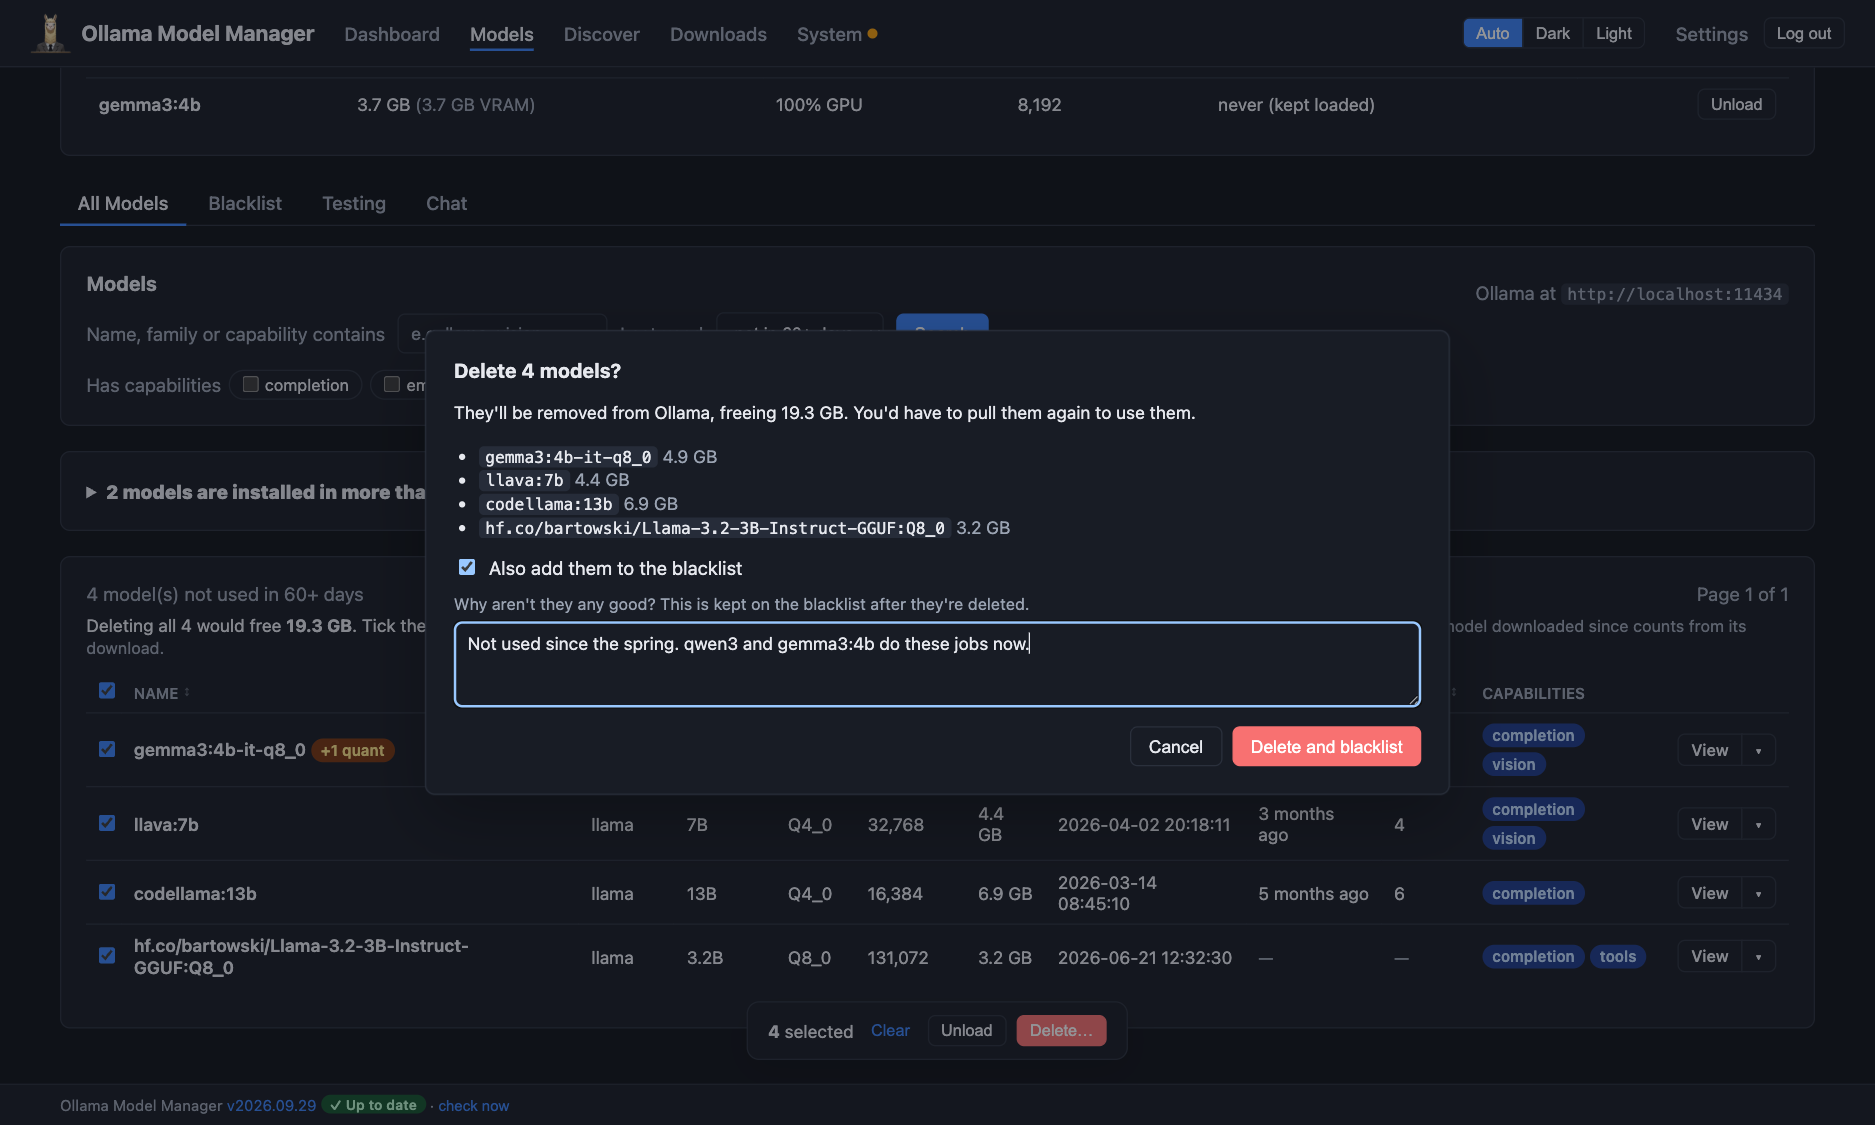
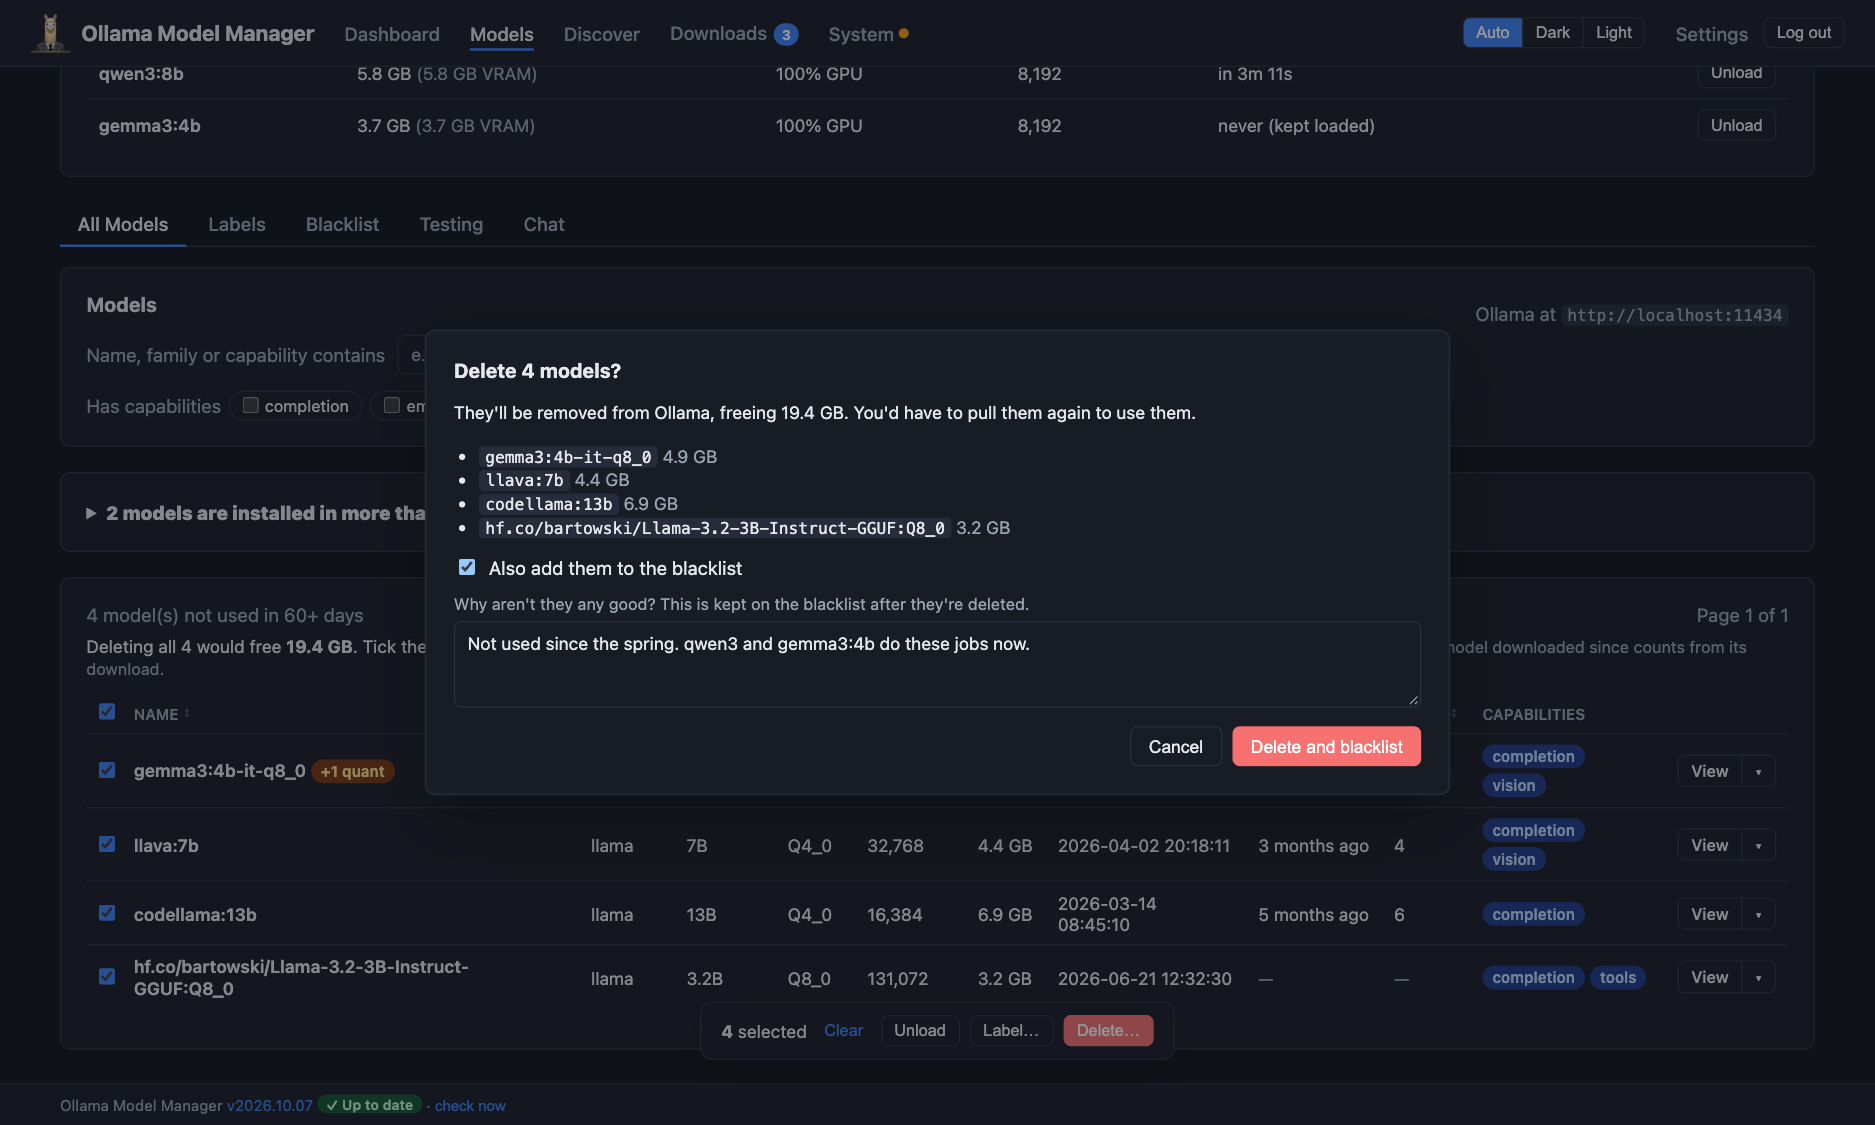
doc updates

diff --git a/internal/web/templates/layout.html b/internal/web/templates/layout.html
@@ -631,7 +631,7 @@
   .disc-tags[open] summary { margin-bottom: 8px; }
   /* An expanded card takes the whole row, so its tag table isn't squeezed into one column of the grid. */
   .disc-card:has(details.disc-tags[open]) { grid-column: 1 / -1; }
-  .disc-tag-table { max-height: 360px; overflow: auto; }
+  .disc-tag-table { max-height: 520px; overflow: auto; } /* tall enough for six or so tags with their quant lines */
   .disc-tag-table td.mono, .disc-tag-table th { white-space: nowrap; }
   .disc-tag-table td { vertical-align: top; }
   .disc-tag-table .badge { cursor: help; white-space: nowrap; }

diff --git a/README.md b/README.md
@@ -10,7 +10,7 @@
   ones that weren't worth keeping.
 </p>
 
-![The dashboard: library totals, free disk space, live system load, the models loaded in memory, four models unused for 60+ days, a chart of each model's use over the last week, and the most recently used models](docs/images/dashboard.png)
+![The dashboard: library totals, free disk space, live system load, the models loaded in memory, four models unused for 60+ days, a chart of each model's use over the last week, and the most recently used models with their labels](docs/images/dashboard.png)
 
 ## What it adds to Ollama
 
@@ -26,6 +26,7 @@ Manager fills in the rest:
 | **Disk space** | `ollama list` sizes, which count files shared between models again for each | The real space used, exactly what a delete frees, the models you haven't used in months, and the ones you have in two quantisations, cleared out in one go |
 | **Comparing models** | Try each one by hand and eyeball it | Tests: one prompt, many models, many runs, with speed and replies side by side |
 | **Remembering what didn't work** | Nothing | A blacklist that keeps why you deleted a model, and warns you before you download it again |
+| **Keeping track of models** | Their names | Colour-coded labels for what each model is for or who uses it, on every page and to filter by |
 | **Staying up to date** | Check the releases yourself | An orange dot when Ollama has an update, with how to install it |
 
 ## Features
@@ -35,13 +36,13 @@ The **dashboard** shows your library's size, free space on the disk Ollama uses,
 loaded in memory (and how much of it is on the GPU), a chart of how long each model was in use each day over the last
 week, and the models you've used most recently.
 
-![The dashboard: library totals, free disk space, live system load, the models loaded in memory, four models unused for 60+ days, a chart of each model's use over the last week, and the most recently used models](docs/images/dashboard.png)
+![The dashboard: library totals, free disk space, live system load, the models loaded in memory, four models unused for 60+ days, a chart of each model's use over the last week, and the most recently used models with their labels](docs/images/dashboard.png)
 
 The **Models** page lists everything installed, with its family, size, quantisation, context length, capabilities, when
 it was downloaded, when it was last used and how many times it's been loaded. Sort by size, parameters, context, download date, last use or
 loads, filter by name, capability or how long it's gone unused, and click a name to copy it.
 
-![The Models page: every installed model, sorted by when it was last used, with selection boxes, and badges for models with another name or another quantisation installed](docs/images/models.png)
+![The Models page: every installed model, sorted by when it was last used, with selection boxes, its labels under its name, and badges for models with another name or another quantisation installed](docs/images/models.png)
 
 Each model's menu loads or unloads it (choosing how long it stays loaded), opens a chat, shows its **other quants** to
 download, links to it on ollama.com or Hugging Face, or deletes it. Tick several to unload, label or delete them at
@@ -58,7 +59,7 @@ time it's loaded, and roughly how long it's in use each day, so you can see whic
 model's page has a 30-day chart alongside everything Ollama knows about it: architecture, parameters, template and
 Modelfile.
 
-![A model's page: its details, and a usage chart of time in use per day over the last 30 days](docs/images/model-detail.png)
+![A model's page: its labels and details, and a usage chart of time in use per day over the last 30 days](docs/images/model-detail.png)
 
 ### Reclaiming disk space
 Sizes count each file once: `llama3.2:latest` and `llama3.2:3b` are one model, a variant made from another shares its
@@ -75,10 +76,11 @@ there's room for everything queued ahead of them.
 ### Discover and download models
 Search GGUF models on [Hugging Face](https://huggingface.co/models?library=gguf) and the
 [Ollama library](https://ollama.com/search) without leaving the app. Every size and quantisation is marked
-✓ fits in VRAM, ◐ partly on the CPU, or ✗ too big for your machine, with its real download size. Downloads go into a
-queue that works through them in the background, with progress, speed and ETA, and suggestions for fixing any that fail.
+✓ fits in VRAM, ◐ partly on the CPU, or ✗ too big for your machine, with its real download size and a line on what its
+quantisation (Q4_K_M, IQ3_XXS and so on) means. Downloads go into a queue that works through them in the background,
+with progress, speed and ETA, and suggestions for fixing any that fail.
 
-![Discover: the gemma3 models on ollama.com, each size checked against an Apple M4, with one blacklisted and one installed](docs/images/discover.png)
+![Discover: the gemma3 models on ollama.com, each size checked against an Apple M4 and each quantisation explained, with one blacklisted and some installed](docs/images/discover.png)
 
 **[Discovering and downloading models →](docs/discovery.md)**, including how to get at gated and private Hugging Face
 models.

diff --git a/docs/discovery.md b/docs/discovery.md
@@ -24,7 +24,7 @@ parameter count, its context length, and a **gated** badge if you need to ask fo
 Open **Files and downloads** to see each quantisation (Q4_K_M, Q8_0 and so on) with its real size and fit. Files split
 into several parts, and vision projectors (which aren't models on their own), are handled for you.
 
-![Discover's Hugging Face tab: the note that the app isn't connected to Hugging Face, and a search for Google's official QAT Gemma GGUF with its quantisations](images/discover-hf.png)
+![Discover's Hugging Face tab: the note that the app isn't connected to Hugging Face, and a search for Google's official QAT Gemma GGUF with its quantisations, each explained](images/discover-hf.png)
 
 A note at the top of the tab says whether this app is connected to Hugging Face. Connected (with `HF_TOKEN` set), it
 names the account, and searches include that account's private repos and the gated ones it's been granted. Not
@@ -49,7 +49,7 @@ and a **Download** button. Tags that are the same download under another name (s
 match. Tags you already have are marked **Installed**, ones in the queue show their progress, and ones on your
 [blacklist](blacklist.md) are marked **Blacklisted**.
 
-![A gemma3 result with its tags open: sizes, context, fit, and which are installed](images/discover.png)
+![A gemma3 result with its tags open: sizes, context, fit, what each quantisation means, and which are installed or blacklisted](images/discover.png)
 
 The filters above the results:
 
@@ -114,7 +114,7 @@ every tag (for ollama.com models) or quantisation (for Hugging Face models) of t
 marked, so you can download a bigger or smaller one to compare. **View on ollama.com / Hugging Face** opens its page
 there.
 
-![The Other quants dialog for qwen3:8b: every size, with the installed ones marked and one downloading](images/other-quants.png)
+![The Other quants dialog for qwen3:8b: every size with what its quantisation means, the installed one marked and one downloading](images/other-quants.png)
 
 ## The download queue
 

diff --git a/docs/disk-space.md b/docs/disk-space.md
@@ -26,7 +26,7 @@ works the figures out from the files themselves:
 - **Deleting says exactly what it frees.** The delete dialogs say how much space deleting a model frees: only the files
   no other model uses. Deleting one name of a model that has another frees nothing, and the dialog says so.
 
-![The Models page: the filters, the duplicate quantisations note, and the list with selection boxes and badges for other tags and quantisations](images/models.png)
+![The Models page: the filters, the duplicate quantisations note, and the list with selection boxes, labels, and badges for other tags and quantisations](images/models.png)
 
 This needs this app to see Ollama's models folder (`MODELS_DIR`; it's found automatically in the usual places, and at
 `/models` in Docker). Without it, tags of the same model are still counted once, but files shared between different
@@ -80,7 +80,7 @@ Tick models on the Models page (or tick the box in the header for the whole page
 - **Delete…** lists them, with how much space deleting them frees, and asks first. Tick **Also add them to the
   blacklist** to [blacklist](blacklist.md) them as they go, with one reason for them all.
 
-![The Delete dialog for four unused models: each with its size, the 19.3 GB freed, and "Also add them to the blacklist" ticked with a reason](images/bulk-delete.png)
+![The Delete dialog for four unused models: each with its size, the 19.4 GB freed, and "Also add them to the blacklist" ticked with a reason](images/bulk-delete.png)
 
 The selection is kept as you sort, filter and page through the list. If any can't be deleted, the others still are, and
 the page says which failed and why.
